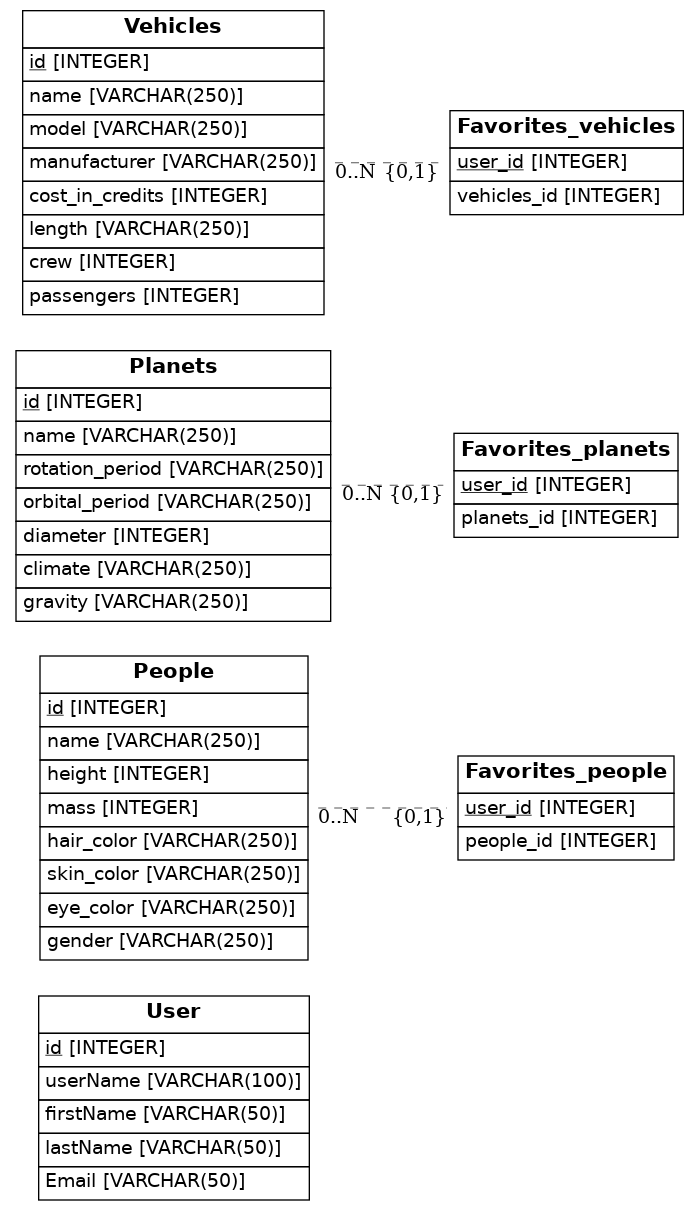
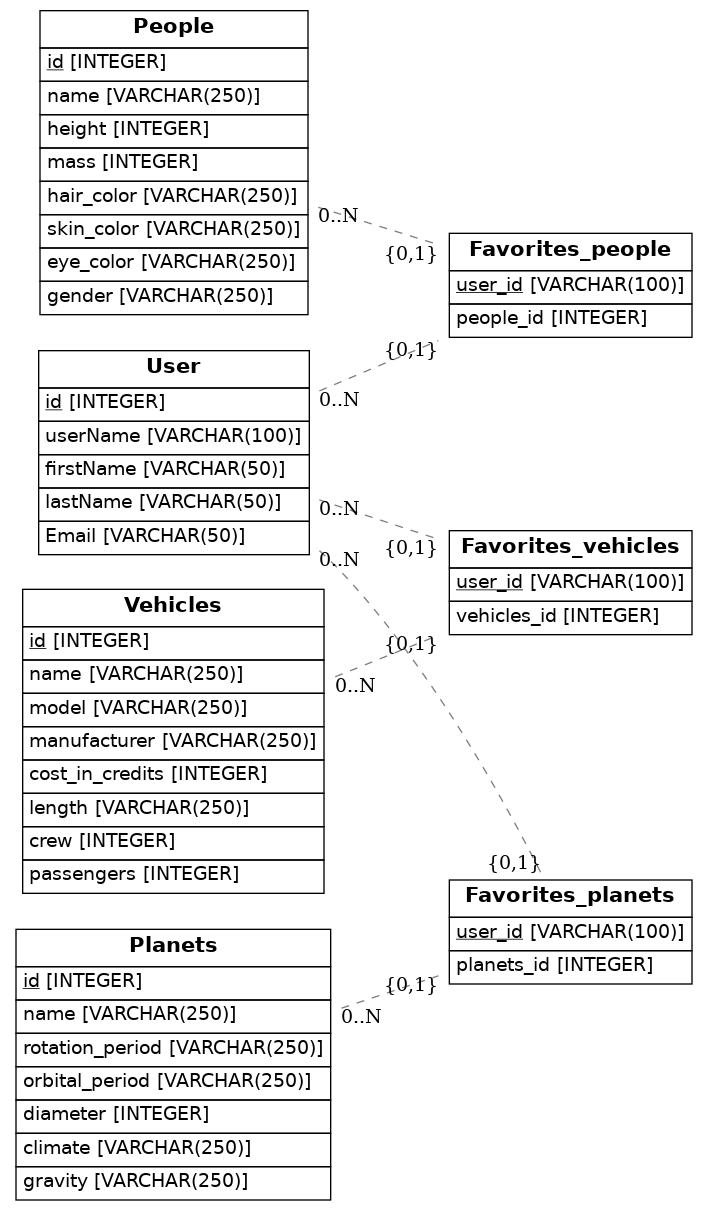
lunes

diff --git a/src/models.py b/src/models.py
@@ -24,46 +24,46 @@ class People(Base):
     name = Column(String(250), nullable=False, unique=True)
     height = Column(Integer, nullable=False)
     mass = Column(Integer, nullable=False)
-    hair_color = Column(String(250))
-    skin_color = Column(String(250))
-    eye_color = Column(String(250))
-    gender= Column(String(250))
+    hair_color = Column(String(250),)
+    skin_color = Column(String(250),)
+    eye_color = Column(String(250),)
+    gender= Column(String(250),)
 
 class Planets(Base):
     __tablename__ = 'Planets'
     id = Column(Integer, primary_key=True)
     name = Column(String(250), nullable=False)
-    rotation_period = Column(String(250))
-    orbital_period = Column(String(250))
+    rotation_period = Column(String(250),)
+    orbital_period = Column(String(250),)
     diameter = Column(Integer)
-    climate = Column(String(250))
-    gravity = Column(String(250))
+    climate = Column(String(250),)
+    gravity = Column(String(250),)
 
 class Vehicles(Base):
     __tablename__ = 'Vehicles'
     id = Column(Integer, primary_key=True)
     name = Column(String(250), nullable=False)
-    model = Column(String(250))
-    manufacturer = Column(String(250))
+    model = Column(String(250),)
+    manufacturer = Column(String(250),)
     cost_in_credits = Column(Integer)
-    length = Column(String(250))
+    length = Column(String(250),)
     crew = Column(Integer, nullable=False)
     passengers = Column(Integer, unique=True, nullable=False)
 
 class Favorites_people(Base):
      __tablename__ = 'Favorites_people'
-     user_id = Column(Integer, ForeignKey('user_id'), primary_key=True)
-     people_id = Column(Integer, ForeignKey('People.people_id'))
+     user_id = Column(String(100), ForeignKey('User.id'), primary_key=True)
+     people_id = Column(Integer, ForeignKey('People.people_id'),)
 
 class favorites_vehicles(Base):
      __tablename__ = 'Favorites_vehicles'
-     user_id = Column(Integer, ForeignKey('user_id'), primary_key=True )
-     vehicles_id = Column(Integer, ForeignKey('Vehicles.vehicles_id'))
+     user_id = Column(String(100), ForeignKey('User.id'), primary_key=True )
+     vehicles_id = Column(Integer, ForeignKey('Vehicles.vehicles_id'),)
 
 class favorites_planets(Base):
      __tablename__ = 'Favorites_planets'
-     user_id = Column(Integer, ForeignKey('user_id'), primary_key=True)
-     planets_id = Column(Integer, ForeignKey('Planets.planets_id'))
+     user_id = Column(String(100), ForeignKey('User.id'), primary_key=True)
+     planets_id = Column(Integer, ForeignKey('Planets.planets_id'),)
      
 
 def to_dict(self):
